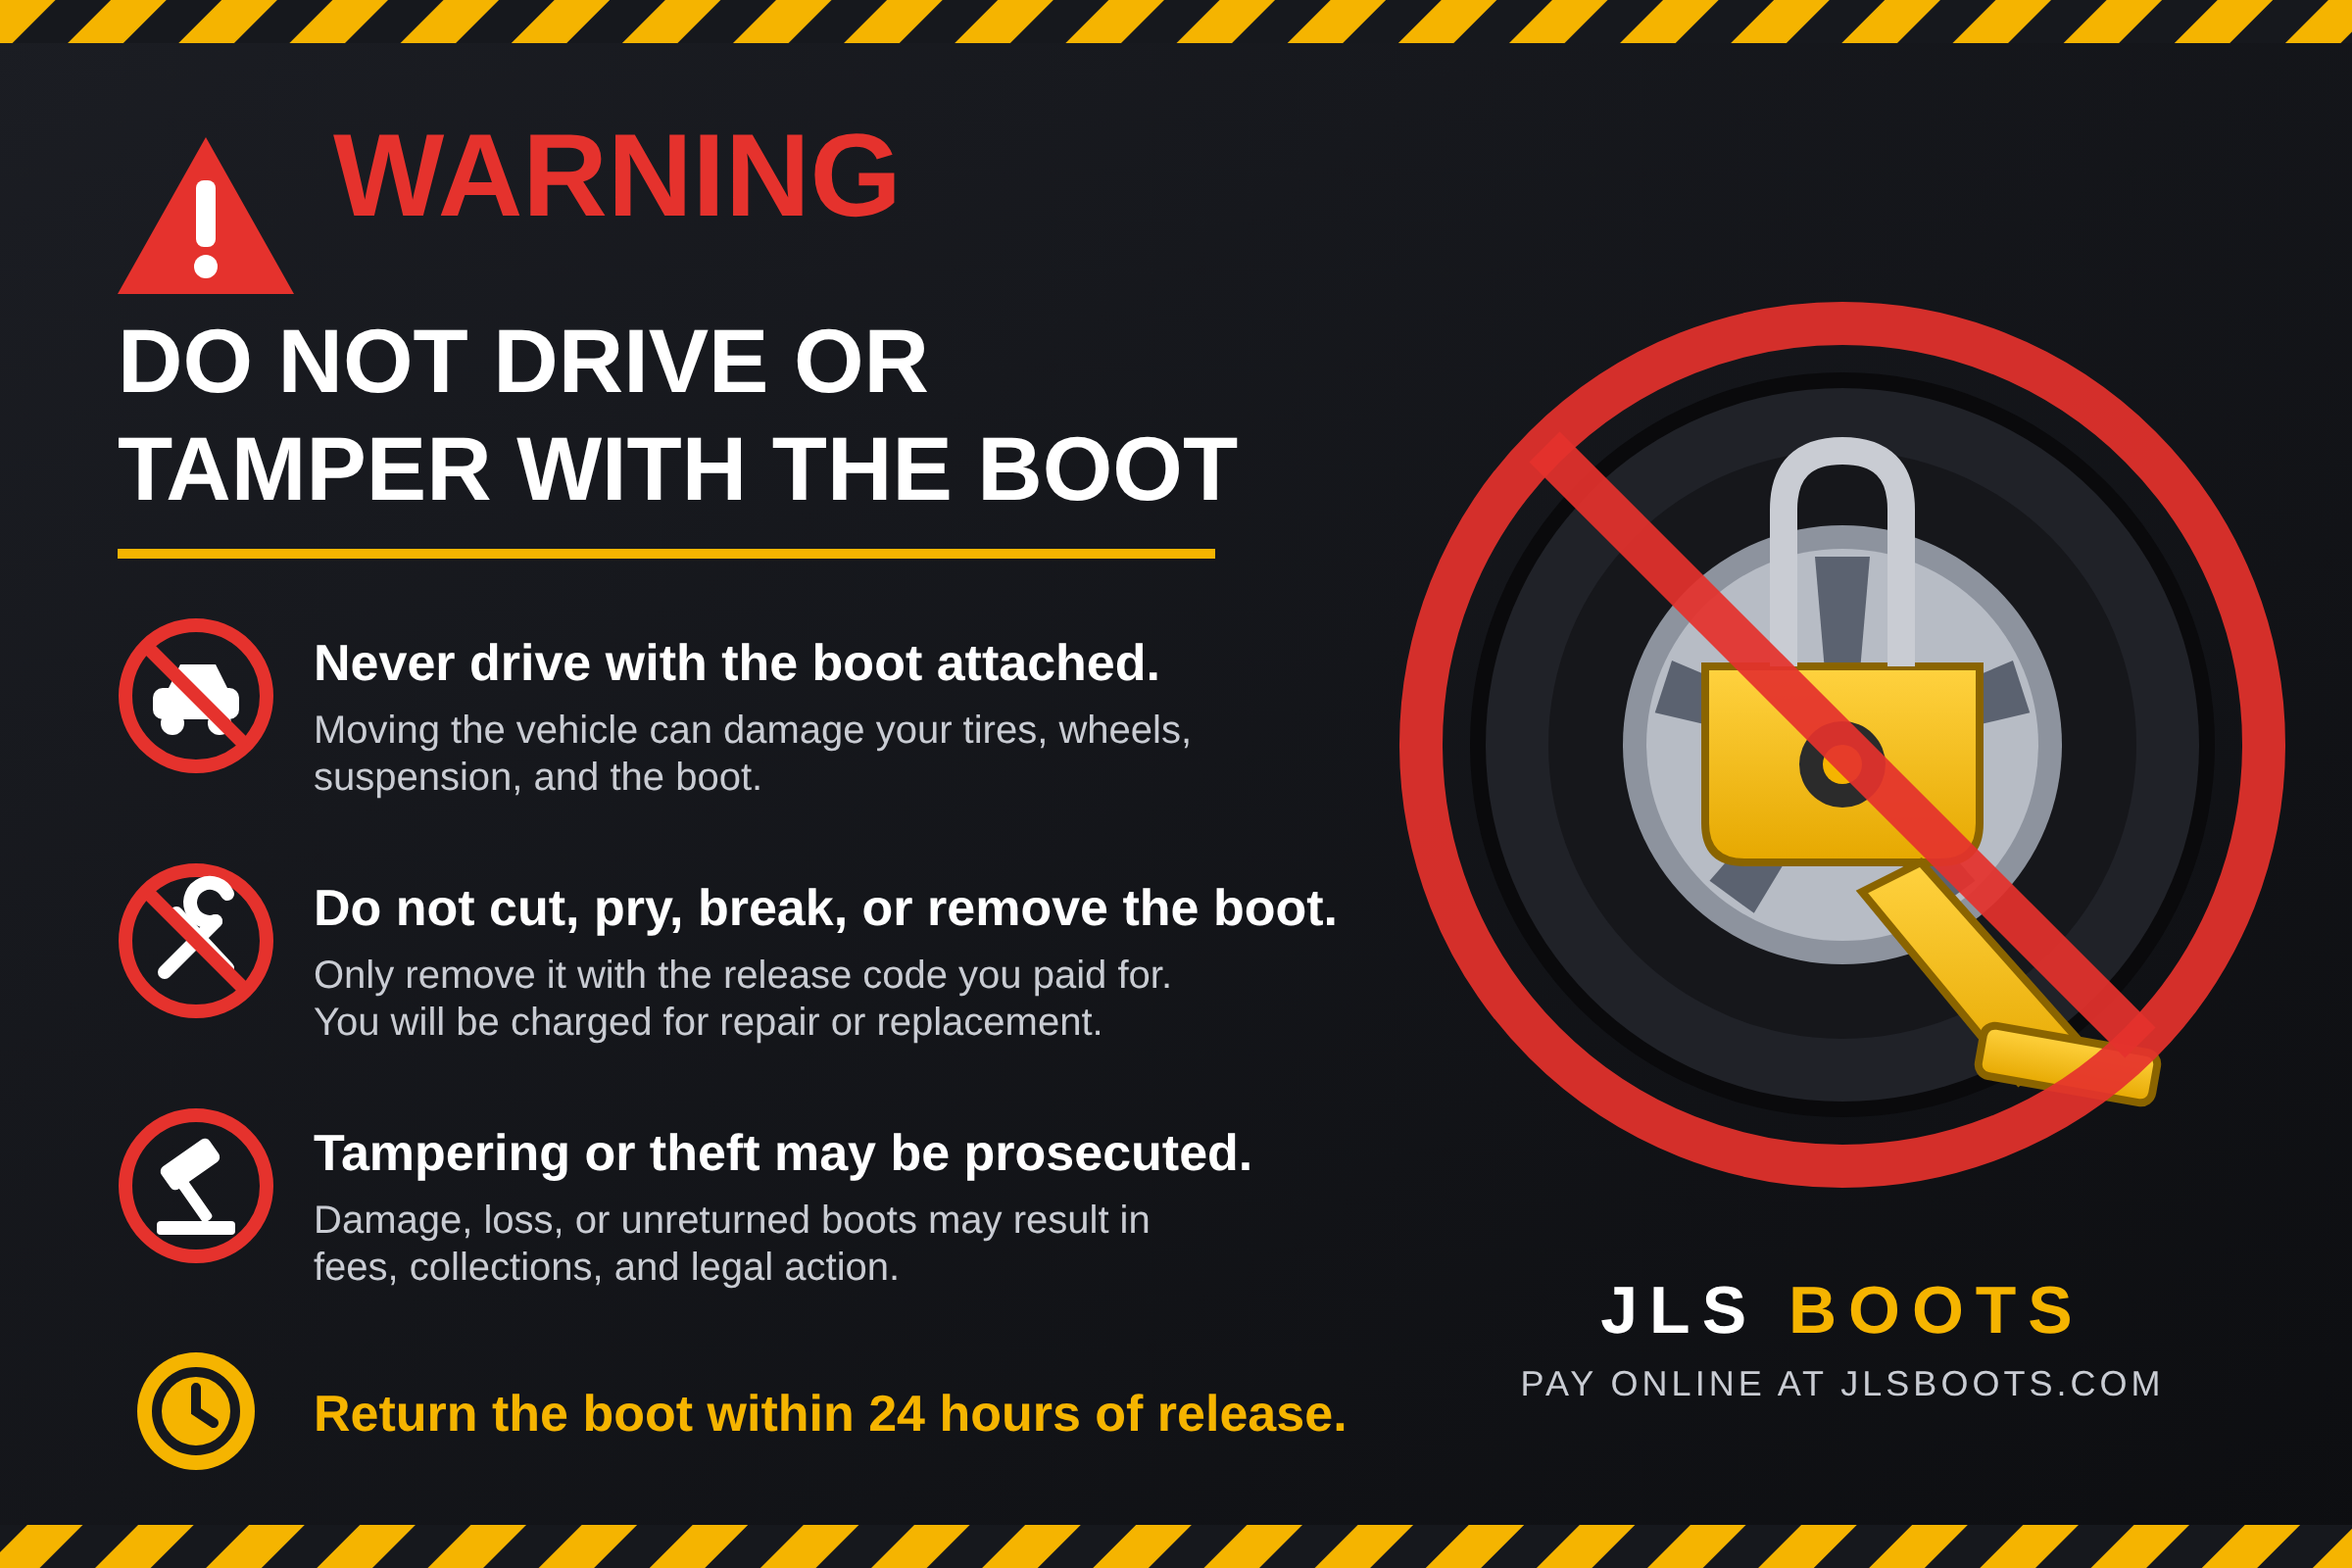
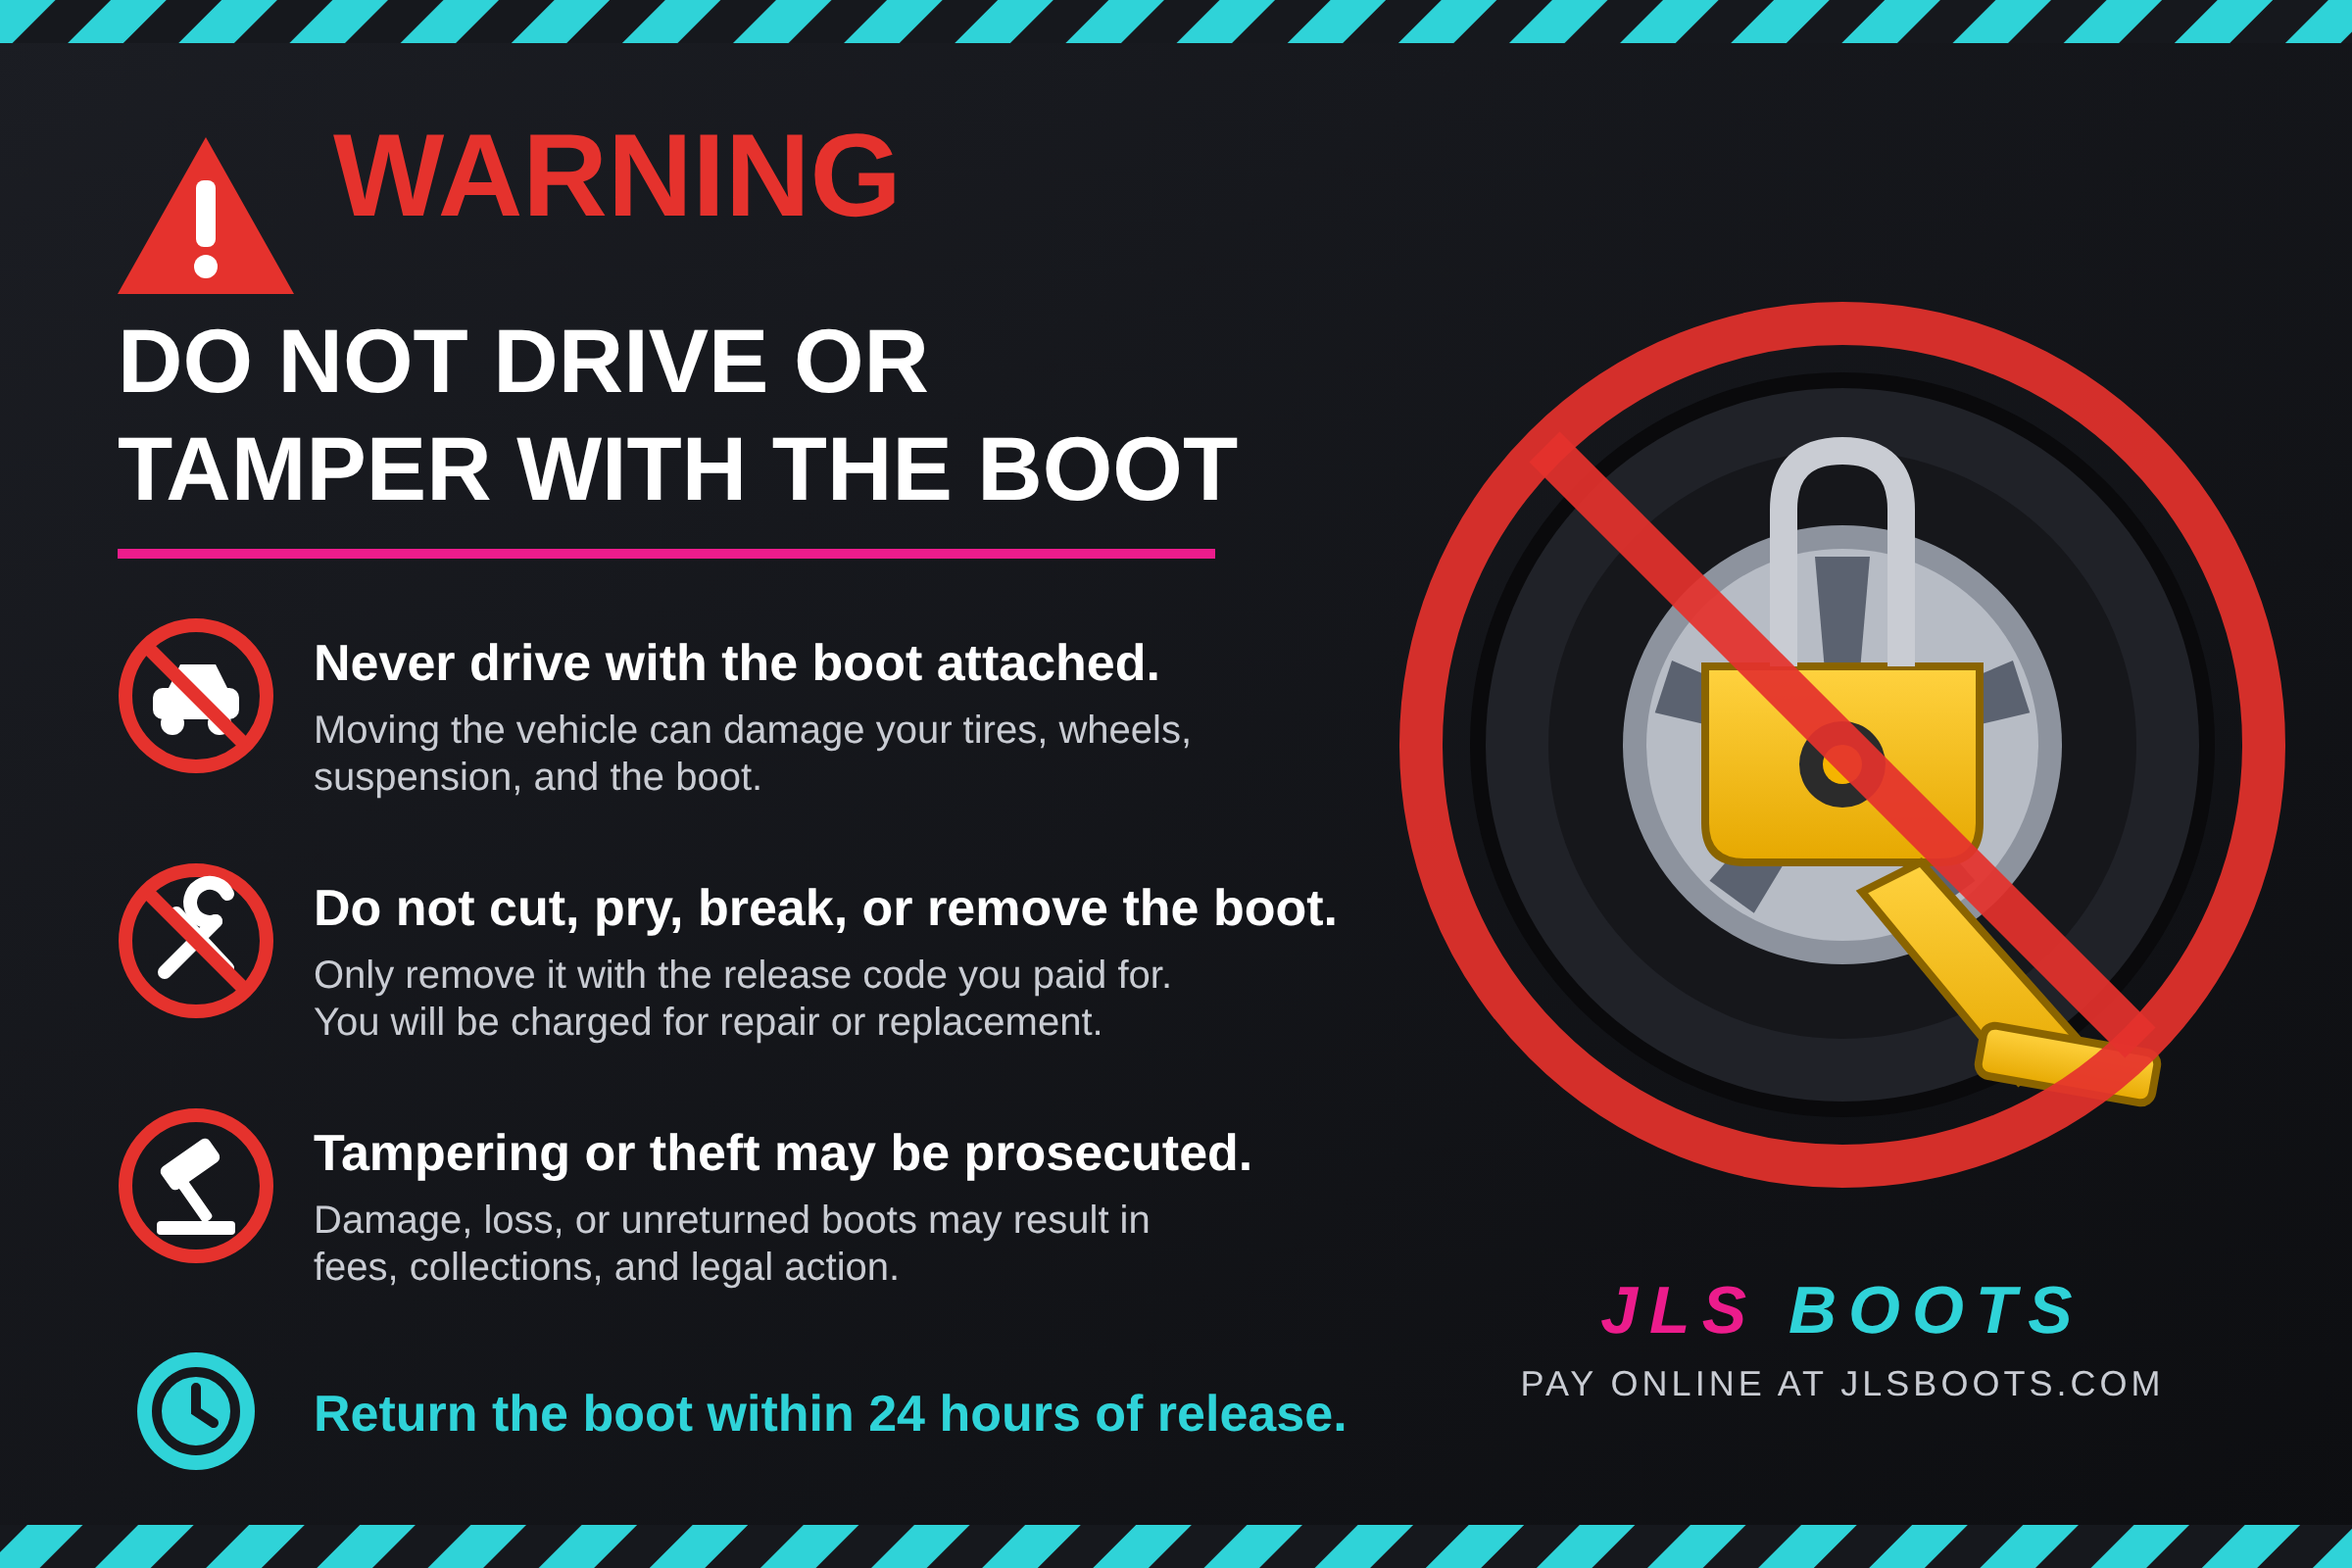
Match JLS Towing colors: hot pink, teal, charcoal
Claude-Session: https://claude.ai/code/session_0121No4GTjz72UZade8ZwiyG

diff --git a/styles.css b/styles.css
@@ -1,11 +1,12 @@
 :root {
-  --ink: #16181d;
+  --ink: #1c1d21;
   --muted: #5b6270;
   --bg: #f6f6f3;
   --card: #ffffff;
   --line: #e2e2dc;
-  --brand: #f5b400;
-  --brand-ink: #1a1400;
+  --brand: #ec1c8c;
+  --teal: #2fd3d8;
+  --brand-ink: #ffffff;
   --danger: #b42318;
   --ok: #157f3b;
   --radius: 12px;
@@ -26,21 +27,23 @@ a { color: inherit; }
 .wrap { max-width: 960px; margin: 0 auto; padding: 0 16px; }
 
 /* Header */
-.site-header { background: var(--ink); color: #fff; }
+.site-header { background: linear-gradient(180deg, #2a2c32, #16171a); color: #fff; border-bottom: 3px solid var(--teal); }
 .site-header .wrap { display: flex; align-items: center; justify-content: space-between; gap: 16px; padding-top: 14px; padding-bottom: 14px; flex-wrap: wrap; }
-.logo { font-weight: 800; font-size: 1.3rem; letter-spacing: .5px; text-decoration: none; }
-.logo span { color: var(--brand); }
+.logo { font-weight: 900; font-style: italic; font-size: 1.5rem; letter-spacing: 1px; text-decoration: none; color: var(--brand); }
+.logo span { color: var(--teal); }
 .nav { display: flex; gap: 18px; flex-wrap: wrap; }
 .nav a { text-decoration: none; opacity: .85; font-size: .95rem; }
 .nav a:hover, .nav a.active { opacity: 1; text-decoration: underline; }
 
 /* Hero */
-.hero { background: var(--ink); color: #fff; padding: 48px 0 56px; border-top: 1px solid #2a2d35; }
+.hero { background: radial-gradient(ellipse at 80% 0%, #3a3d45 0%, var(--ink) 60%); color: #fff; padding: 48px 0 56px; }
+.hero h1 span { color: var(--brand); }
 .hero h1 { font-size: clamp(2rem, 5vw, 3rem); margin: 0 0 12px; line-height: 1.1; }
 .hero p { font-size: 1.1rem; max-width: 620px; opacity: .9; margin: 0 0 24px; }
 
 .btn { display: inline-block; background: var(--brand); color: var(--brand-ink); font-weight: 700; padding: 14px 26px; border-radius: 999px; text-decoration: none; border: 0; font-size: 1rem; cursor: pointer; }
-.btn:hover { filter: brightness(1.05); }
+.btn:hover { filter: brightness(1.1); }
+.btn { box-shadow: 0 0 0 2px var(--teal) inset, 0 4px 14px rgba(236,28,140,.35); }
 .btn:disabled { opacity: .5; cursor: not-allowed; }
 .btn.secondary { background: transparent; color: inherit; border: 2px solid currentColor; }
 
@@ -51,11 +54,11 @@ h3 { margin: 0 0 6px; }
 .card { background: var(--card); border: 1px solid var(--line); border-radius: var(--radius); padding: 22px; }
 .grid { display: grid; gap: 16px; grid-template-columns: repeat(auto-fit, minmax(220px, 1fr)); }
 
-.step-num { display: inline-grid; place-items: center; width: 34px; height: 34px; border-radius: 50%; background: var(--brand); color: var(--brand-ink); font-weight: 800; margin-bottom: 10px; }
+.step-num { display: inline-grid; place-items: center; width: 34px; height: 34px; border-radius: 50%; background: var(--teal); color: var(--ink); font-weight: 800; margin-bottom: 10px; }
 
 .notice { border-left: 4px solid var(--danger); background: #fff4f2; padding: 14px 16px; border-radius: 8px; margin: 24px 0; }
 .notice.ok { border-color: var(--ok); background: #effaf3; }
-.notice.info { border-color: var(--brand); background: #fffaeb; }
+.notice.info { border-color: var(--teal); background: #ebfbfc; }
 
 /* Form */
 form .field { margin-bottom: 18px; }
@@ -73,12 +76,13 @@ input[type=text], input[type=email], input[type=tel], select {
 .boot-picker input { position: absolute; opacity: 0; }
 .boot-picker .tile { display: block; text-align: center; border: 2px solid var(--line); border-radius: 10px; padding: 12px 6px; background: #fff; cursor: pointer; font-weight: 400; }
 .boot-picker .tile b { display: block; font-size: 1.15rem; }
-.boot-picker input:checked + .tile { border-color: var(--ink); background: #fffaeb; }
-.boot-picker input:focus-visible + .tile { outline: 3px solid var(--brand); }
+.boot-picker input:checked + .tile { border-color: var(--brand); background: #fff0f7; }
+.boot-picker input:focus-visible + .tile { outline: 3px solid var(--teal); }
 
 .loc h3 { margin-bottom: 4px; }
 .loc .addr { font-weight: 600; }
-.loc a.map { display: inline-block; margin-top: 10px; font-weight: 600; }
+.loc a.map { display: inline-block; margin-top: 10px; font-weight: 600; color: var(--brand); }
+.card { border-top: 4px solid var(--teal); }
 
 .faq details { background: var(--card); border: 1px solid var(--line); border-radius: 10px; padding: 14px 18px; margin-bottom: 10px; }
 .faq summary { font-weight: 700; cursor: pointer; }
@@ -86,5 +90,5 @@ input[type=text], input[type=email], input[type=tel], select {
 .countdown { font-size: 1.5rem; font-weight: 800; }
 
 /* Footer */
-.site-footer { background: var(--ink); color: #c9ccd3; padding: 28px 0; font-size: .9rem; }
+.site-footer { background: var(--ink); color: #c9ccd3; padding: 28px 0; font-size: .9rem; border-top: 3px solid var(--teal); }
 .site-footer a { color: #fff; }

diff --git a/index.html b/index.html
@@ -13,7 +13,7 @@
 
 <section class="hero">
   <div class="wrap">
-    <h1>Your vehicle has been booted.</h1>
+    <h1>Your vehicle has been <span>booted.</span></h1>
     <p>Pay online in a few minutes, get your release code, take the boot off yourself, and drop it at one of our return locations. No waiting for a driver.</p>
     <a class="btn" href="release.html">Release My Boot</a>
   </div>
